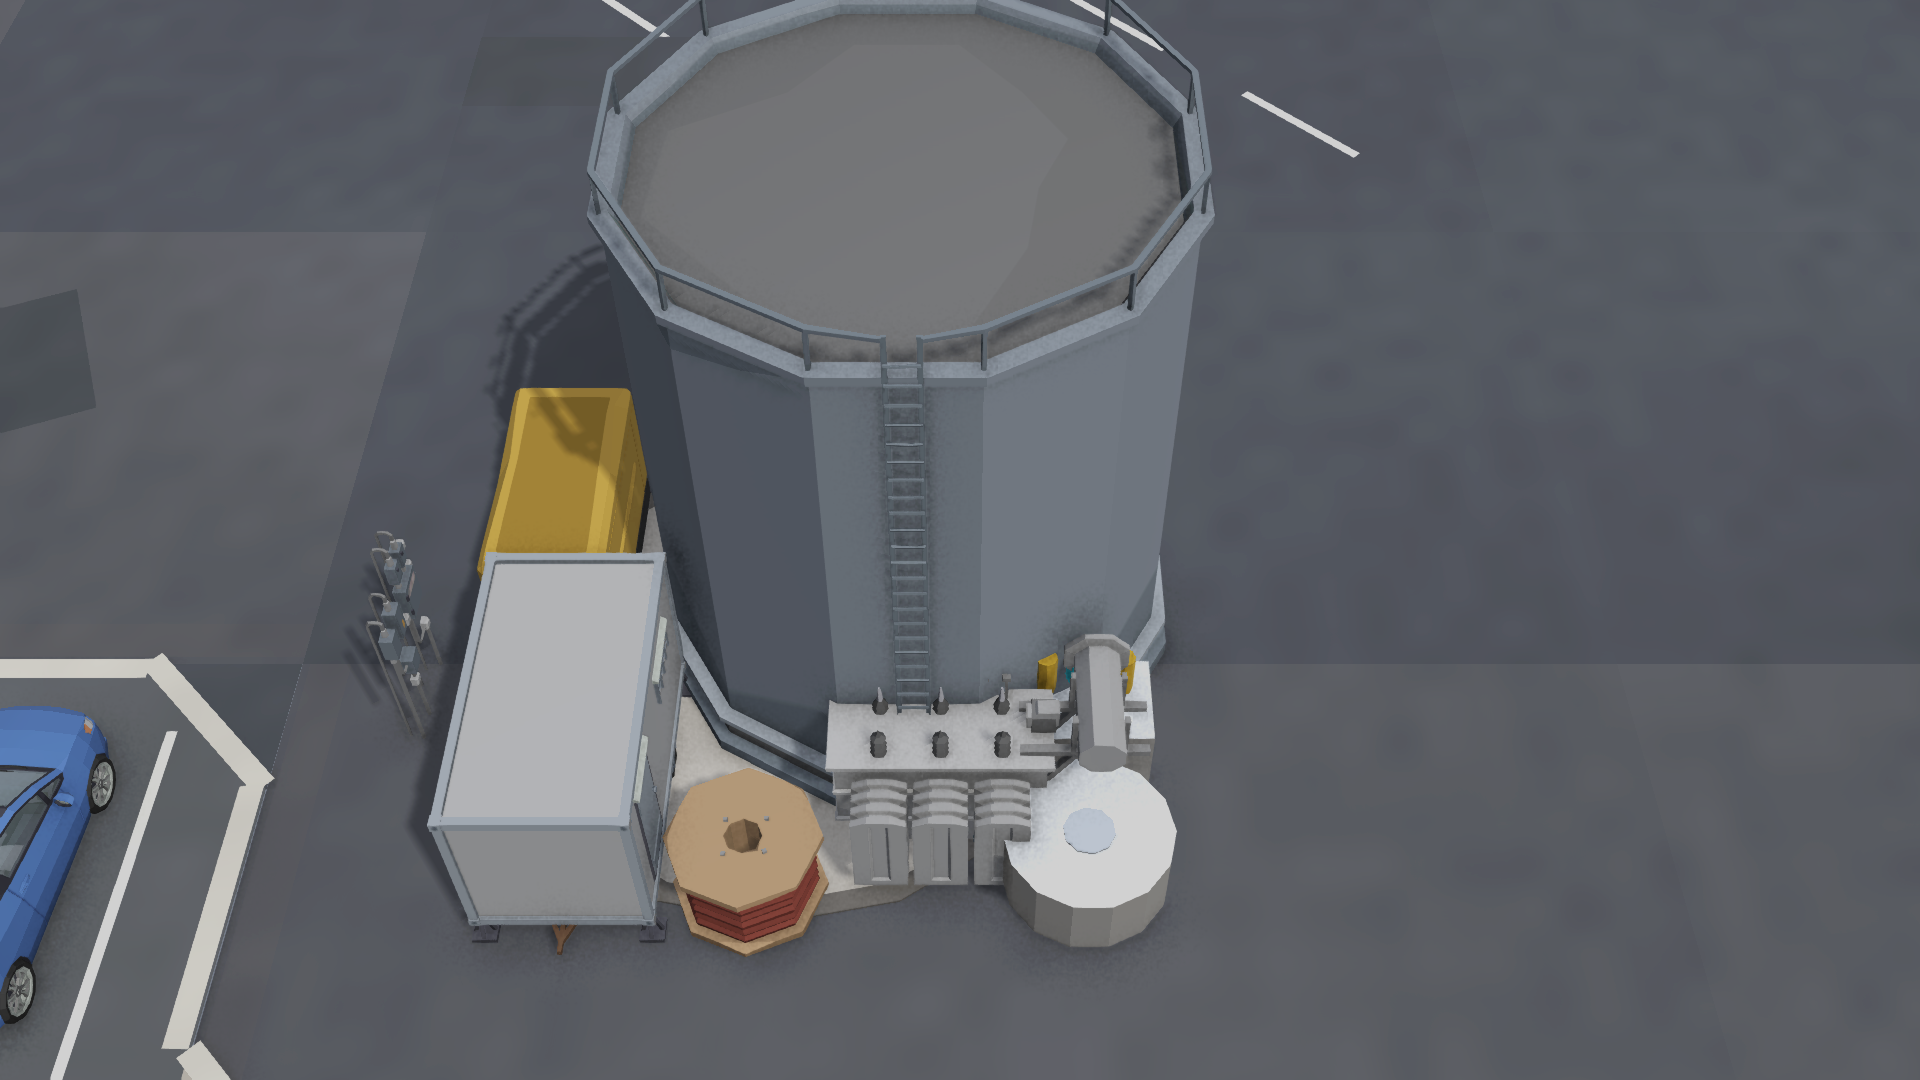
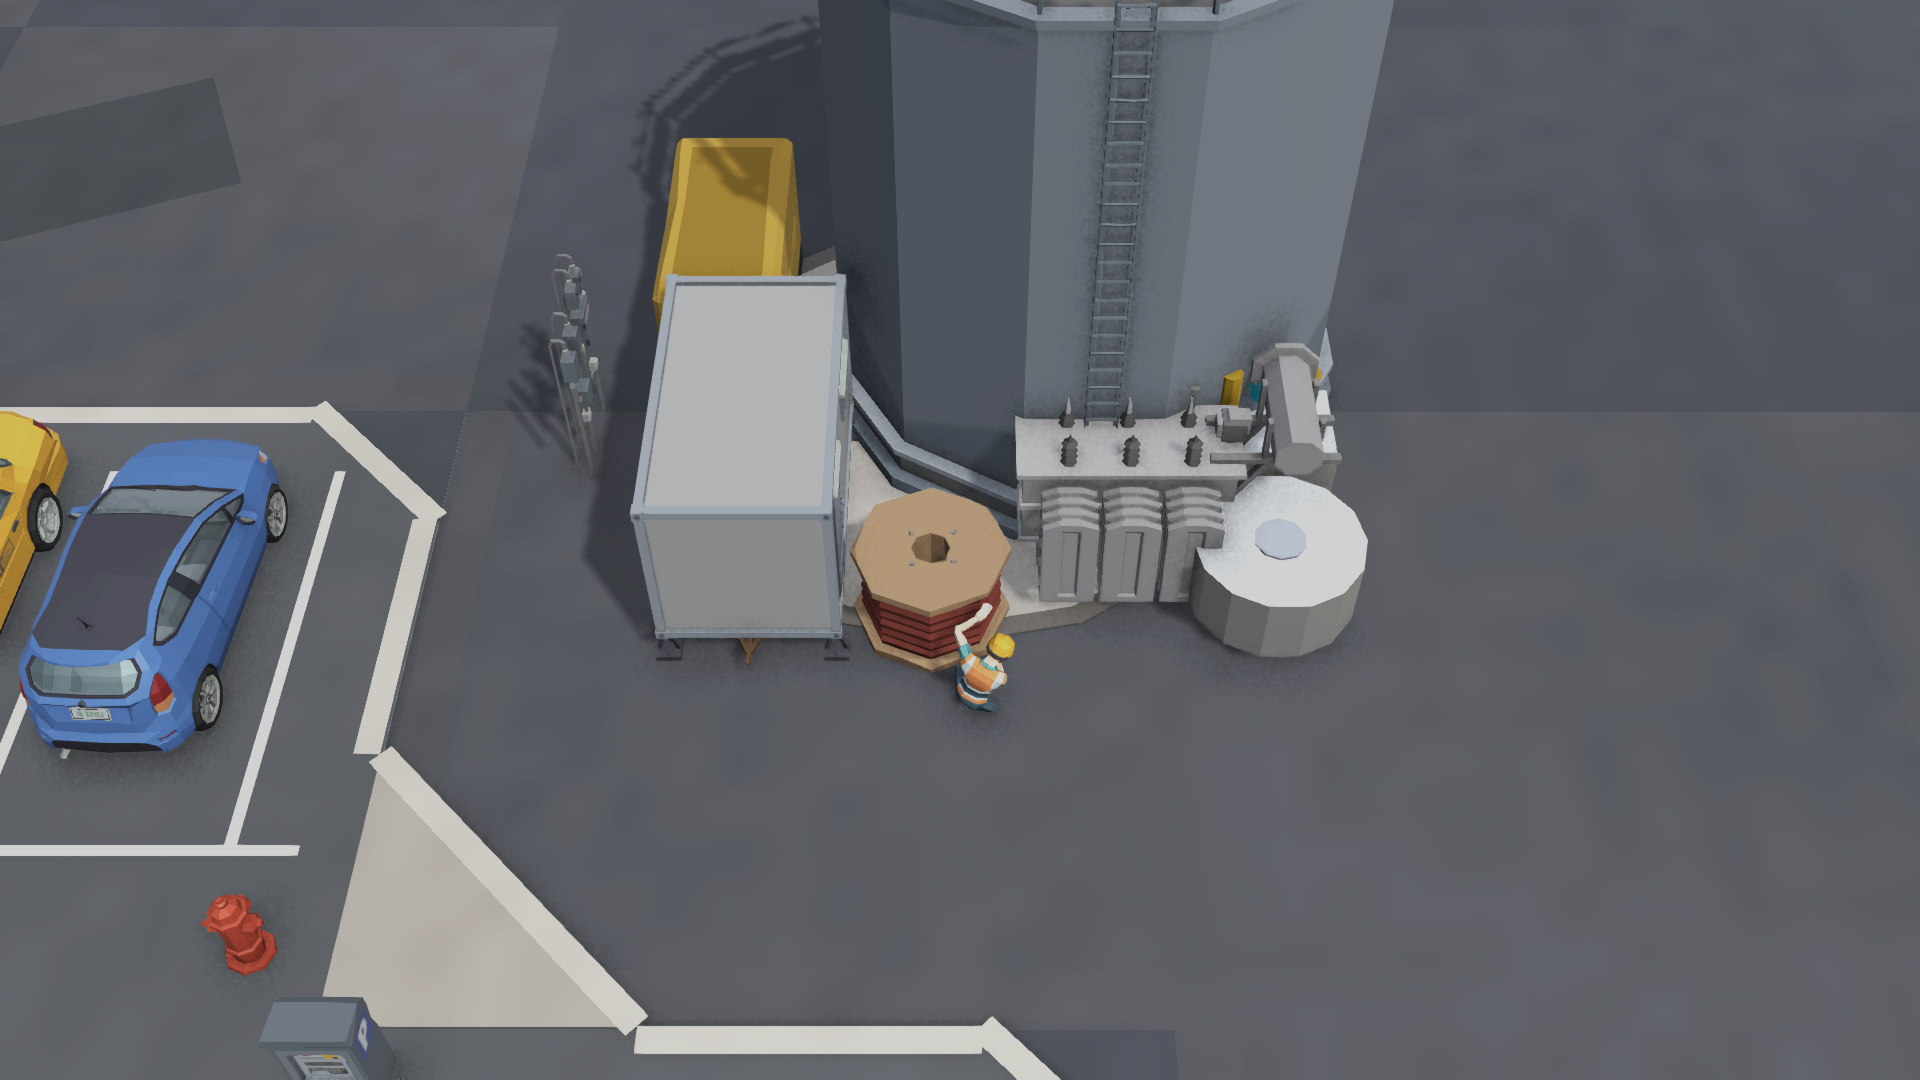
[gemini] Mixamo 승무원 착석(오토바이·함정·헬기) 및 발전소 전면 작업자 모션 보정 (2/2 통과)

diff --git a/Assets/QuantumUser/View/FactoryWars/Battle/BattleView.cs b/Assets/QuantumUser/View/FactoryWars/Battle/BattleView.cs
@@ -2063,12 +2063,12 @@ namespace FactoryWars.View {
       string pose = null;
       Vector3 seat = Vector3.zero;
       float scale = 0.64f;
-      if (id == "cf_scout_bike") { pose = "Drive"; seat = new Vector3(0f, 0.72f, -0.15f); scale = 0.68f; }
-      else if (id == "ff_scout_buggy") { pose = "Drive"; seat = new Vector3(-0.22f, 0.42f, 0.05f); scale = 0.64f; }
-      else if (id == "ff_scout_boat") { pose = "Drive"; seat = new Vector3(0f, 0.62f, -0.55f); scale = 0.68f; }
-      else if (id == "ff_landing_craft") { pose = "Drive"; seat = new Vector3(0f, 1.05f, -1.65f); scale = 0.72f; }
+      if (id == "cf_scout_bike") { pose = "Drive"; seat = new Vector3(0f, 1.12f, -0.38f); scale = 0.92f; }
+      else if (id == "ff_scout_buggy") { pose = "Drive"; seat = new Vector3(-0.22f, 0.48f, 0.05f); scale = 0.72f; }
+      else if (id == "ff_scout_boat") { pose = "Drive"; seat = new Vector3(0f, 0.95f, -0.65f); scale = 0.85f; }
+      else if (id == "ff_landing_craft") { pose = "Drive"; seat = new Vector3(0f, 1.35f, -1.75f); scale = 0.85f; }
       else if (id == "ff_hawk_gunship" || id == "cf_gale_gunship" || id == "pmc_scout_heli" || id == "pmc_attack_heli") {
-        pose = "Pilot"; seat = new Vector3(0f, 0.55f, 0.85f); scale = 0.60f;
+        pose = "Pilot"; seat = new Vector3(0f, 0.75f, 1.05f); scale = 0.78f;
       }
       if (pose == null) return;
       if (!VisualCatalog.TryFilled(VisualCatalog.FxId("const_worker_0"), out var slot) || slot.Prefab == null) return;
@@ -2107,7 +2107,7 @@ namespace FactoryWars.View {
         foreach (var collider in crew.GetComponentsInChildren<Collider>(true)) collider.enabled = false;
         crew.transform.localPosition = new Vector3(0.15f, 0f, -(actor.FootprintRadius + 0.95f));
         crew.transform.localRotation = Quaternion.Euler(0f, 0f, 0f);
-        crew.transform.localScale = Vector3.one * 0.82f;
+        crew.transform.localScale = Vector3.one * 0.95f;
         actor.ActivityCrew = crew;
       }
       if (actor.ActivityCrew == null) return;

diff --git a/Assets/Tests/SequentialResourceAndFeelTests.cs b/Assets/Tests/SequentialResourceAndFeelTests.cs
@@ -857,10 +857,13 @@ namespace FactoryWars.Tests {
       yield return WaitFrames(20);
       Assert.IsTrue(bv.Actors.TryGetValue(powerPlant, out var ppAct) && ppAct.ActivityCrew != null && ppAct.ActivityCrew.activeSelf,
         "PowerPlant spawns live Mixamo technician crew (Device/Inspect)");
-      rts.Height = 18f;
-      rts.MoveTo(new Vector2(-24f, -62f));
+      rts.Height = 16f;
+      rts.MoveTo(new Vector2(-26f, -66f));
       rts.Apply();
-      yield return WaitFrames(8);
+      for (var wf = 0; wf < 8; wf++) {
+        yield return WaitFrames(12);
+        CaptureCameraPng(camera, Path.Combine(frames, $"worker_motion_{wf:00}.png"), 960, 540);
+      }
       CaptureCameraPng(camera, Path.Combine(dir, "mixamo_resource_workers.png"), 1920, 1080);
 
       // 3. Vehicle, Aircraft & Naval Crew (Drive & Pilot) on clear open road.
@@ -882,6 +885,12 @@ namespace FactoryWars.Tests {
       rts.Apply();
       yield return WaitFrames(8);
       CaptureCameraPng(camera, Path.Combine(dir, "mixamo_vehicle_and_crew_poses.png"), 1920, 1080);
+
+      rts.Height = 20f;
+      rts.MoveTo(new Vector2(-19f, 118f));
+      rts.Apply();
+      yield return WaitFrames(6);
+      CaptureCameraPng(camera, Path.Combine(dir, "mixamo_naval_crew_poses.png"), 1920, 1080);
       Debug.Log("[Mixamo_InfantryWorkersAndCrew_VerifyAndCapture] PASS (42 Humanoid clips, Patrol->Combat, PowerPlant Crew, Drive/Pilot Crew)");
     }
   }

diff --git a/README.md b/README.md
@@ -9,10 +9,10 @@
 
 ## Mixamo 휴머노이드 애니메이션 통합 (42종 클립 · 보병 순찰/전투 전환 · 자원 작업자 · 차량/항공 승무원 · 2026-11-25 · 2/2 통과)
 
-| 보병/PMC 순찰 보행 vs. 전투 조준/사격 전후 | 순찰 → 교전 전환 모션 클립 (GIF) | 차량 승무원(`Drive`) & 발전소 작업자(`Device`/`Inspect`) |
+| 보병/PMC 순찰 보행 vs. 전투 조준/사격 전후 | 순찰 → 교전 전환 & 발전소 작업자 모션 (GIF) | 차량·오토바이·함정 승무원(`Drive`) 자세 |
 | --- | --- | --- |
-| [![보병 순찰 vs 전투 전환](Docs/status_images/Mixamo/mixamo_patrol_vs_combat_before_after.png)](Docs/status_images/Mixamo/mixamo_patrol_vs_combat_before_after.png) | [![보병 순찰→교전 전환 GIF](Docs/status_images/Mixamo/mixamo_infantry_patrol_to_combat.gif)](Docs/status_images/Mixamo/mixamo_infantry_patrol_to_combat.gif) | [![차량 승무원 Drive 자세](Docs/status_images/Mixamo/mixamo_vehicle_and_crew_poses.png)](Docs/status_images/Mixamo/mixamo_vehicle_and_crew_poses.png) |
-| [전후 비교](Docs/status_images/Mixamo/mixamo_patrol_vs_combat_before_after.png) · `WalkWithRifle` ↔ `IdleAiming`/`FiringRifle`/`RifleRun`/`Reload` | [GIF 클립](Docs/status_images/Mixamo/mixamo_infantry_patrol_to_combat.gif) · Bake-Into-Pose 루트 잠금·X Bot 메시 0건 | [차량 승무원](Docs/status_images/Mixamo/mixamo_vehicle_and_crew_poses.png) · [자원/발전소 작업자](Docs/status_images/Mixamo/mixamo_resource_workers.png) (`Dig`/`Chop`/`Device`/`Inspect`) |
+| [![보병 순찰 vs 전투 전환](Docs/status_images/Mixamo/mixamo_patrol_vs_combat_before_after.png)](Docs/status_images/Mixamo/mixamo_patrol_vs_combat_before_after.png) | [![발전소/자원 작업자 모션 GIF](Docs/status_images/Mixamo/mixamo_resource_workers_motion.gif)](Docs/status_images/Mixamo/mixamo_resource_workers_motion.gif) | [![차량·오토바이 승무원 Drive 자세](Docs/status_images/Mixamo/mixamo_vehicle_and_crew_poses.png)](Docs/status_images/Mixamo/mixamo_vehicle_and_crew_poses.png) |
+| [전후 비교](Docs/status_images/Mixamo/mixamo_patrol_vs_combat_before_after.png) · [보병 전환 GIF](Docs/status_images/Mixamo/mixamo_infantry_patrol_to_combat.gif) | [작업자 GIF](Docs/status_images/Mixamo/mixamo_resource_workers_motion.gif) · [발전소 작업자 원본](Docs/status_images/Mixamo/mixamo_resource_workers.png) (`Device`/`Inspect`/`Dig`/`Chop`) | [버기·오토바이 승무원](Docs/status_images/Mixamo/mixamo_vehicle_and_crew_poses.png) · [초계정·상륙정 승무원](Docs/status_images/Mixamo/mixamo_naval_crew_poses.png) |
 
 ---
 
